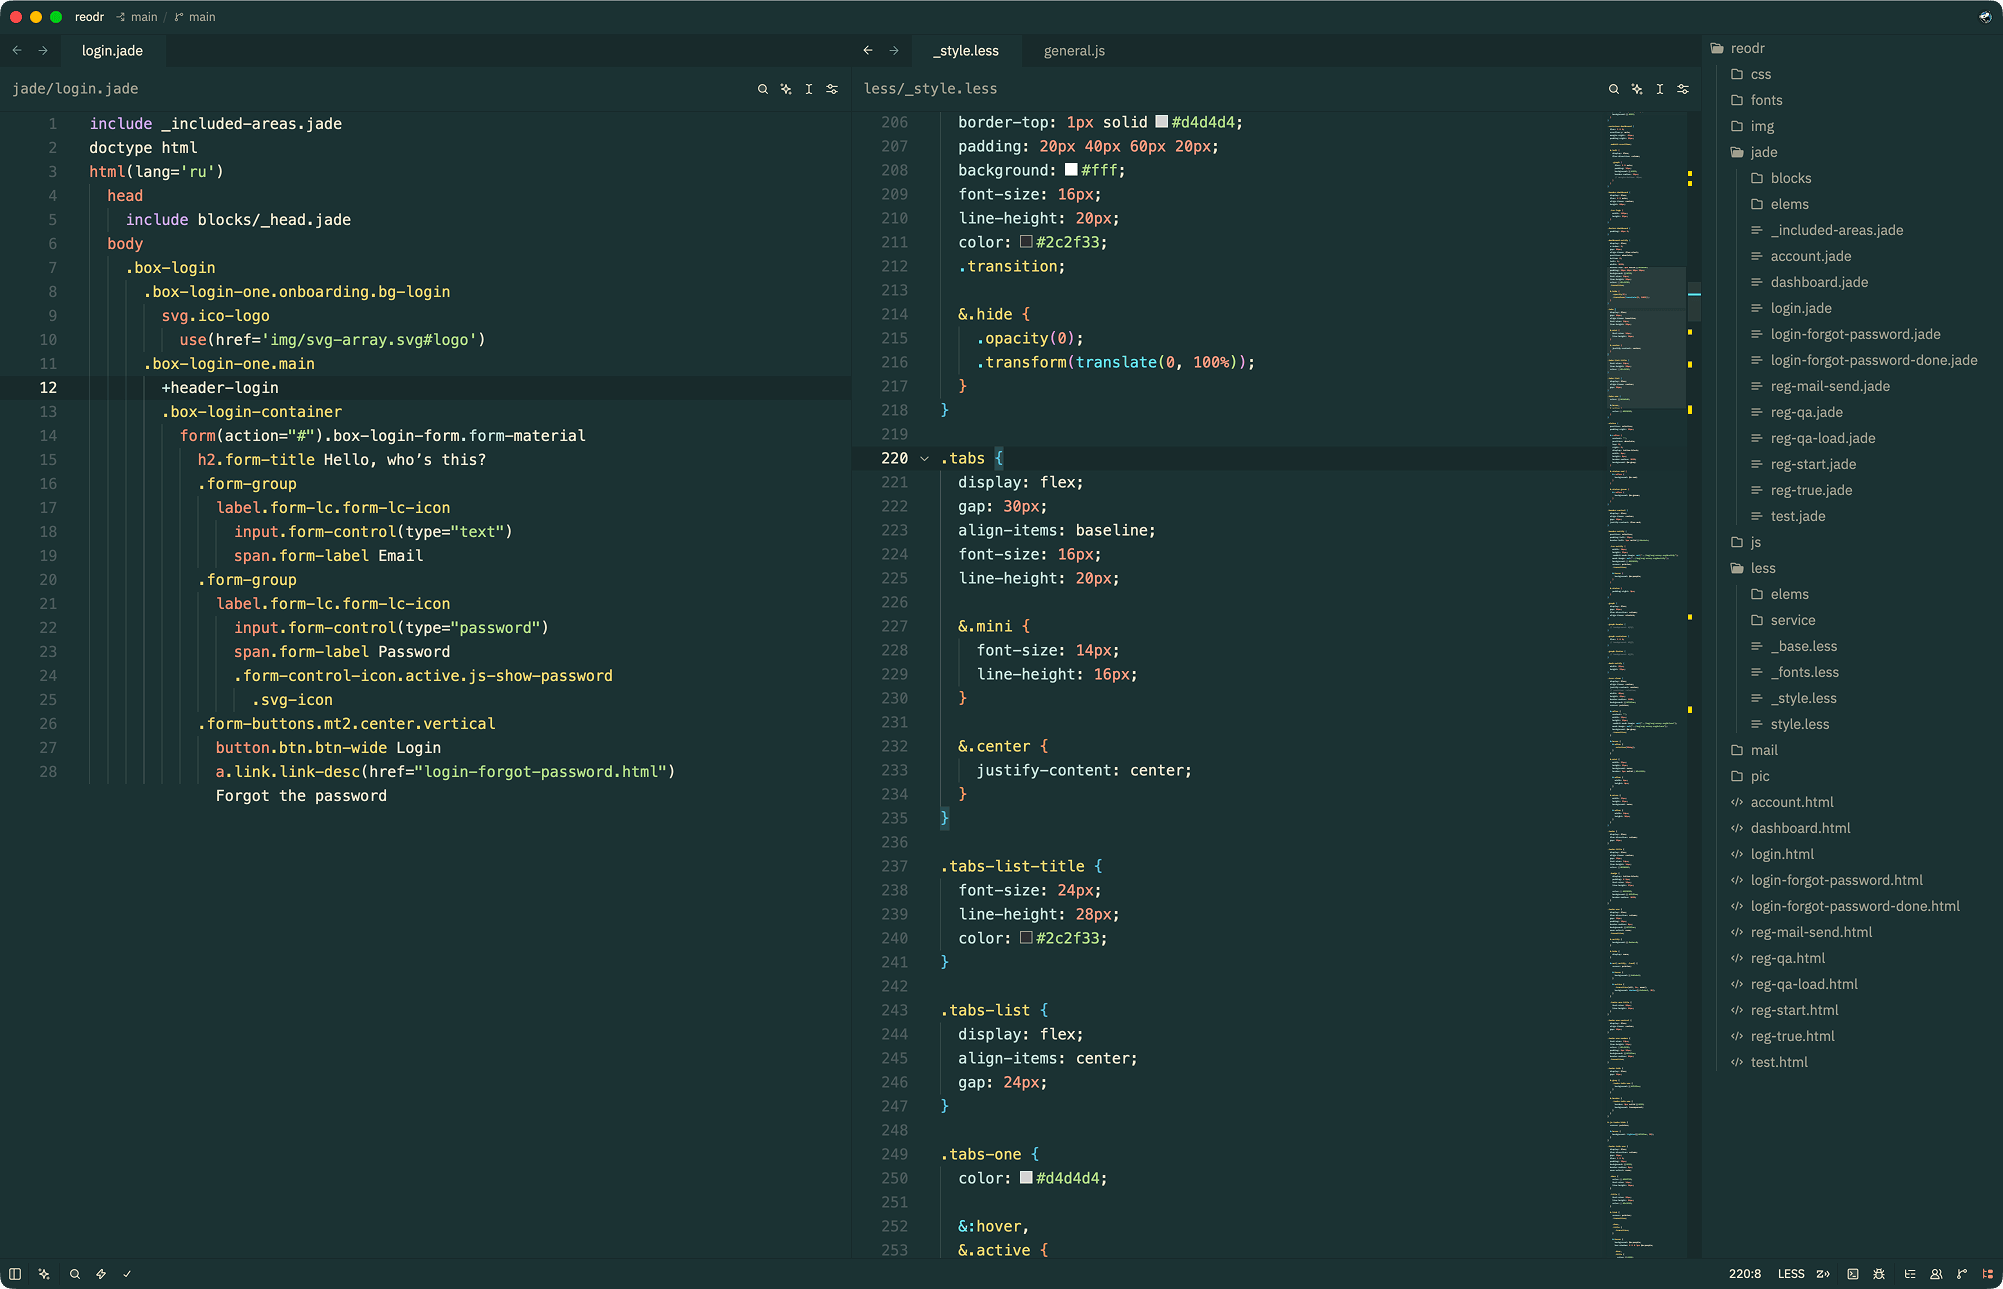
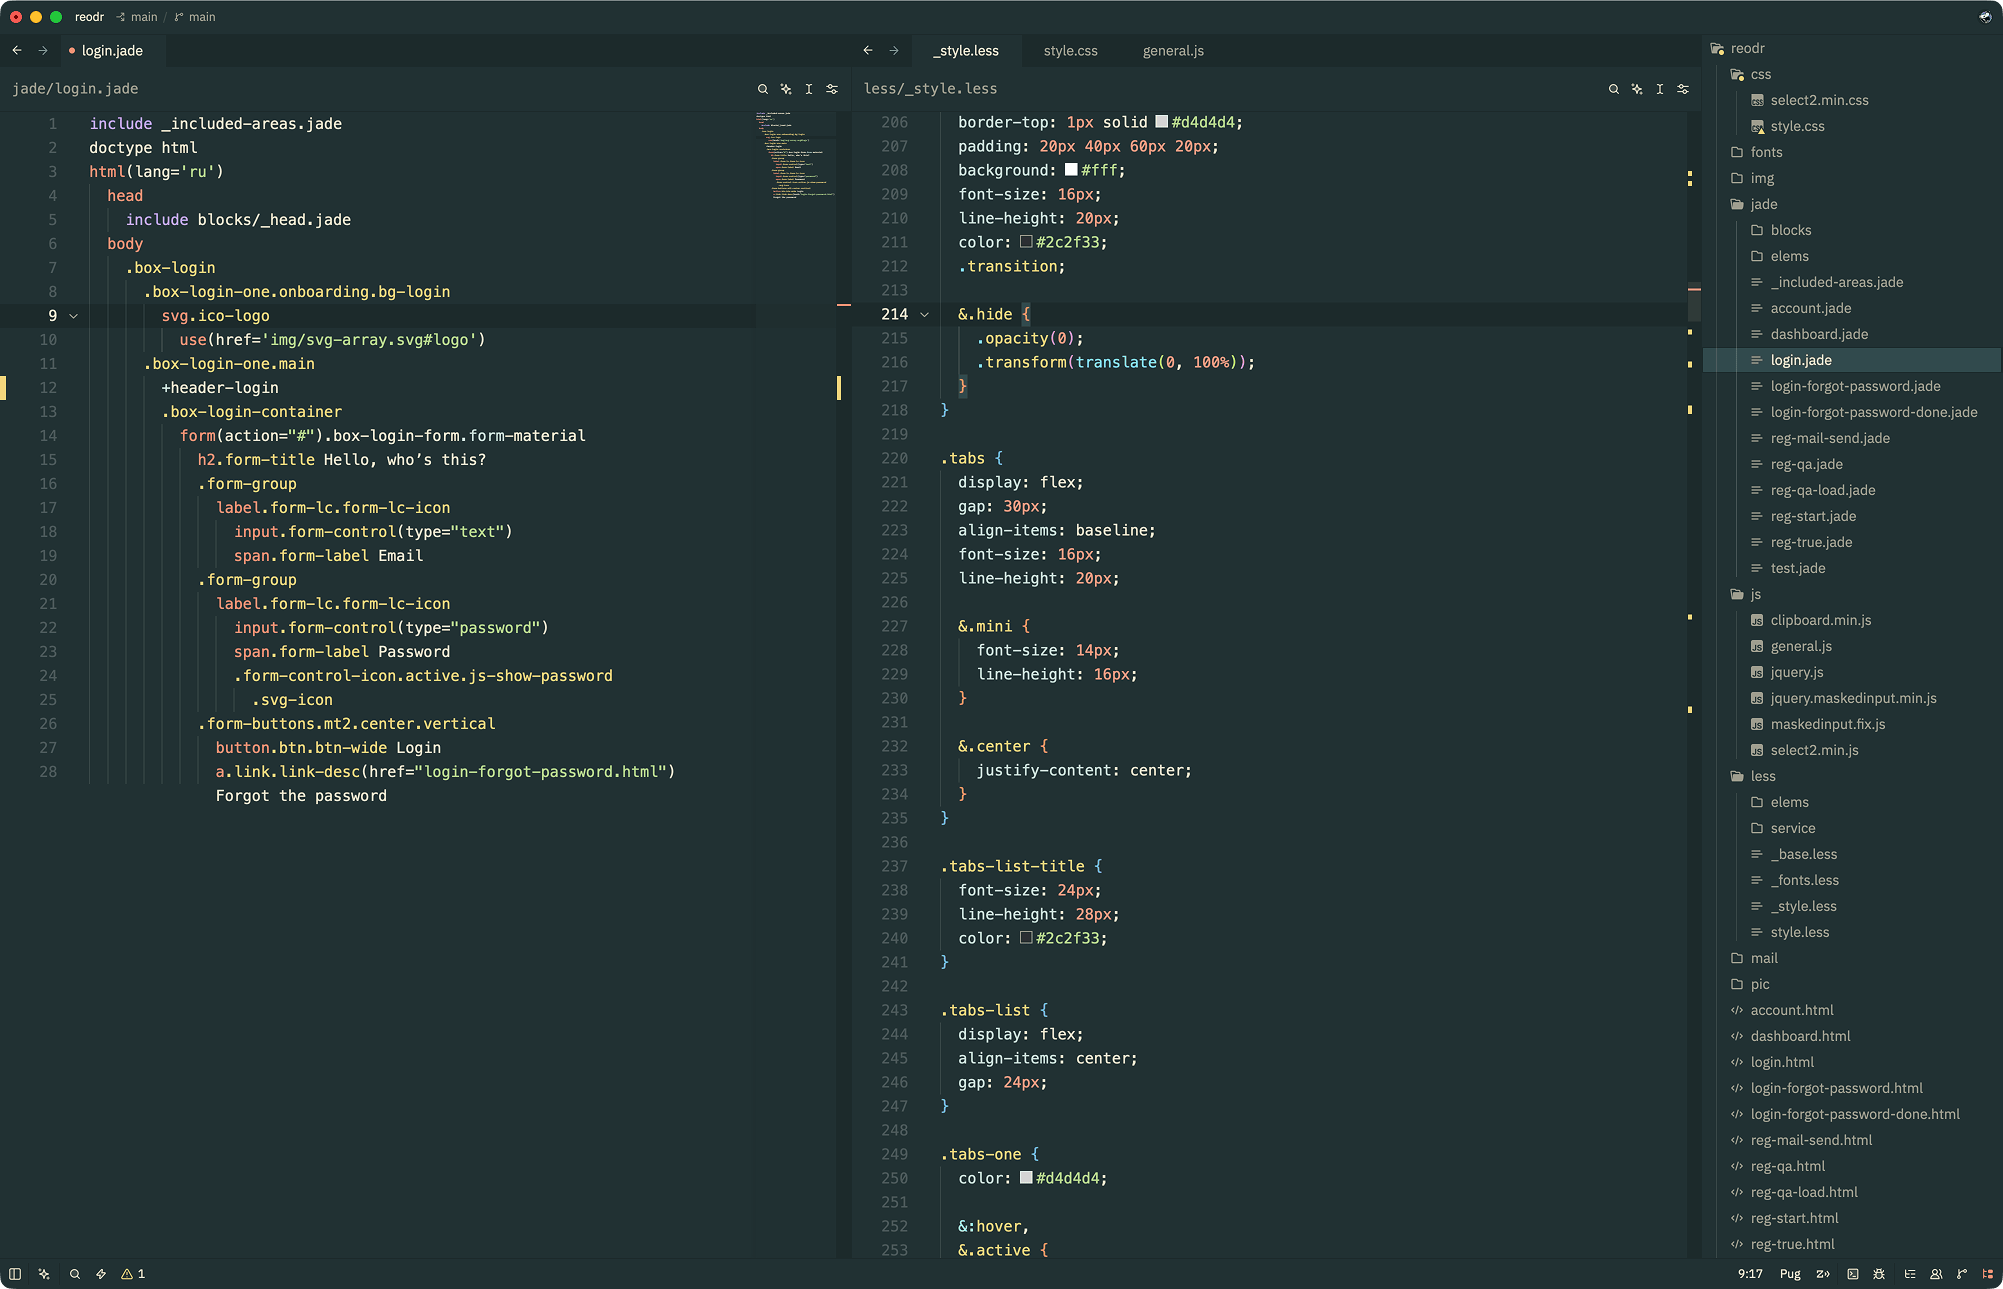
readme update

diff --git a/README.md b/README.md
@@ -1,5 +1,9 @@
 # Fineorite ☄️
 
-![Fineorite theme preview](assets/screenshot.png)
+![Fineorite theme for Zed editor - title](assets/title.png)
+
+![Fineorite theme for Zed editor - color palette](assets/color.png)
+
+![Fineorite theme for Zed editor - preview](assets/screenshot.png)
 
 Calm, medium contrast, dark and flat theme for [Zed editor](https://zed.dev)